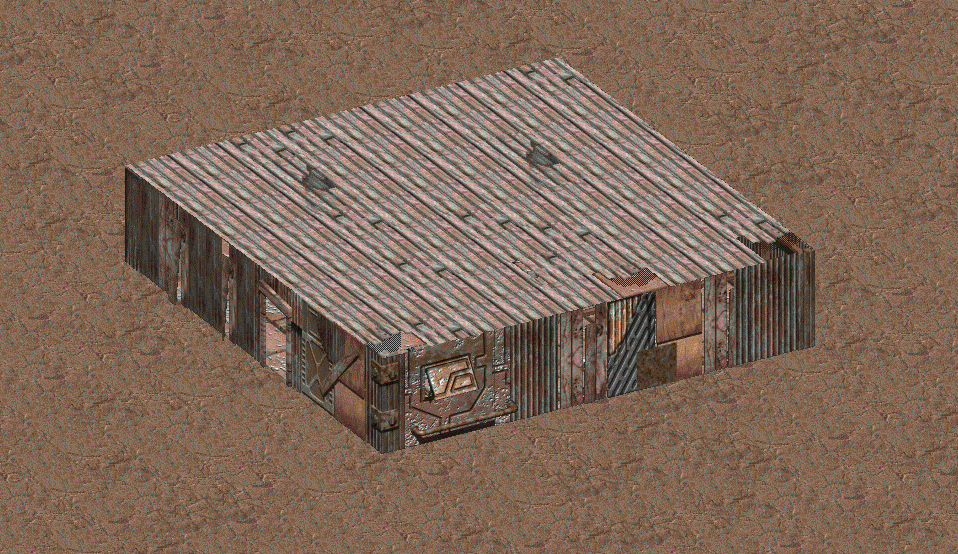
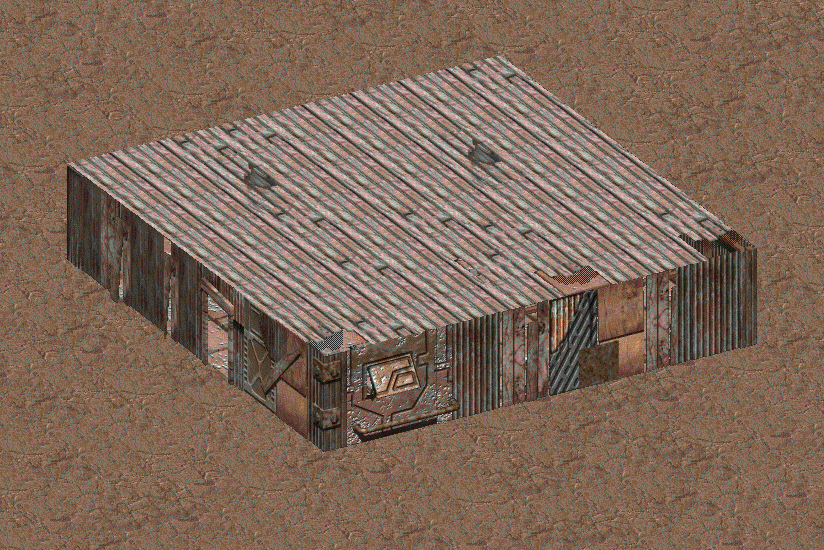
expanded how to map

diff --git a/index.html b/index.html
@@ -35,6 +35,7 @@
 					<li><a href="index.html#build_map">How to build a map</a></li>
 						<ol>
 							<li><a href="index.html#Floors_and_walls">Floors and walls</a></li>
+							<li><a href="index.html#scenery and critters">Scenery and critters</a></li>
 							<li><a href="index.html#Ladders_and_stairs">Ladders and stairs</a></li>
 						</ol>
 					<li><a href="index.html#adding_maps">Adding maps</a></li>
@@ -815,7 +816,7 @@
 		<br>
 		<br>
 			<p>Have placed the tiles plus all walls plus roof and filling up the holes looks like this.</p>
-			<img src="images\mapping\Floors_and_walls\All walls + roof small.png" alt="" width="900" height="500">
+			<img src="images\mapping\Floors_and_walls\All walls + roof small.png" alt="" width="700" height="500">
 		<br>
 		<hr>
 
@@ -823,12 +824,29 @@
 			<p>Our basic map should now be ready. Now place the objects (Scenery). We place some objects that we think fit into the current scene. 
 				But be careful... sometimes less is more! Don't try to put the same scenery elements several times in the map so that you get them on one screen. 
 				Otherwise you will get the impression that everything is always repeated. And that usually looks ugly or boring.</p>
-			<img src="" alt="">
+			<img src="images\mapping\Scenery and critters\Scenery small.png" alt="" width="700" height="500">
 			<p>Placing Critters. We select "Critters" in the gray box at the bottom left. Now we can place the existing critters into the map. 
 				(I'll tell you later how to create new critters) Use the arrows at the bottom of the screen to indicate in which direction the figure should look. 
 				When we have placed a person, we press the M key to get the arrow cursor. We click on the figure and click EDIT at the bottom. 
 				Now we can make various settings, such as setting the inventory or assigning a script to the character.</p>
-			<img src="" alt="">
+			<img src="images\mapping\Scenery and critters\Critters small.png" alt="" width="700" height="500">
+			<p>Now come the rest of the details, such as setting light sources. Some scenery objects emit light by themselves, like the burning barrels. 
+				But that's not enough for us, so we'll add some lights ourselves. To do this, we go to "Scenery" in the lower left corner and move to tile number 140. 
+				This is our light source. Select it with the right mouse button and place it in the map at the desired position.</p>
+			<p>IMPORTANT: You have to activate "Toggle Block Obj View" (Tools -> Toggle Block Obj View) before, otherwise you can't see the light source!</p>	
+			<p>Under Scripts -> Set Start Hex we determine the start location of the player.</p>	
+			<img src="images\mapping\Scenery and critters\Light source visible small.png" alt="">
+		<br>
+			<img src="images\mapping\Scenery and critters\Light source small.png" alt="" width="700" height="500">
+			<p>If we now press F8 (default_f8_as_game= must be set to 1 in mapper.cfg), we enter the test game and we can walk around. 
+				The critters don't do much yet, since we haven't assigned them a script. If we press the D key, we change the time of day and can see how our placed light sources work. 
+				The map is not 100% finished yet. Still missing are the so-called "scroll blockers", which limit the scroll radius of the player and the exit points, 
+				which bring the player to the world map etc. This will follow in the next tutorial.</p>
+		<br>
+		<hr>
+
+		<div id="scrollblocker and levelexit"><h4>Scrollblocker and levelexits</h4></div>
+			<p></p>
 		<br>
 		<hr>
 
